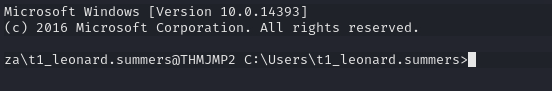
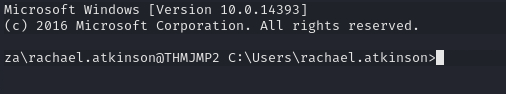
Update Lateral Movement and Pivoting

diff --git a/Room/LateralMovementAndPivoting/README.md b/Room/LateralMovementAndPivoting/README.md
@@ -308,9 +308,13 @@ Once you have started the service, you should receive a connection in your Attac
 
     `THM{MOVING_WITH_SERVICES}`
 
+    * Get the Crendential
+    
+        ![task3-credential](./images/task3-credential.png)
+
     * Connect to THMJMP2 via SSH
     
-        `ssh t1_leonard.summers@za.tryhackme.com@thmjmp2.za.tryhackme.com`
+        `ssh za\\rachael.atkinson@thmjmp2.za.tryhackme.com`
 
         ![task3-ssh](./images/task3-ssh.png)
 
